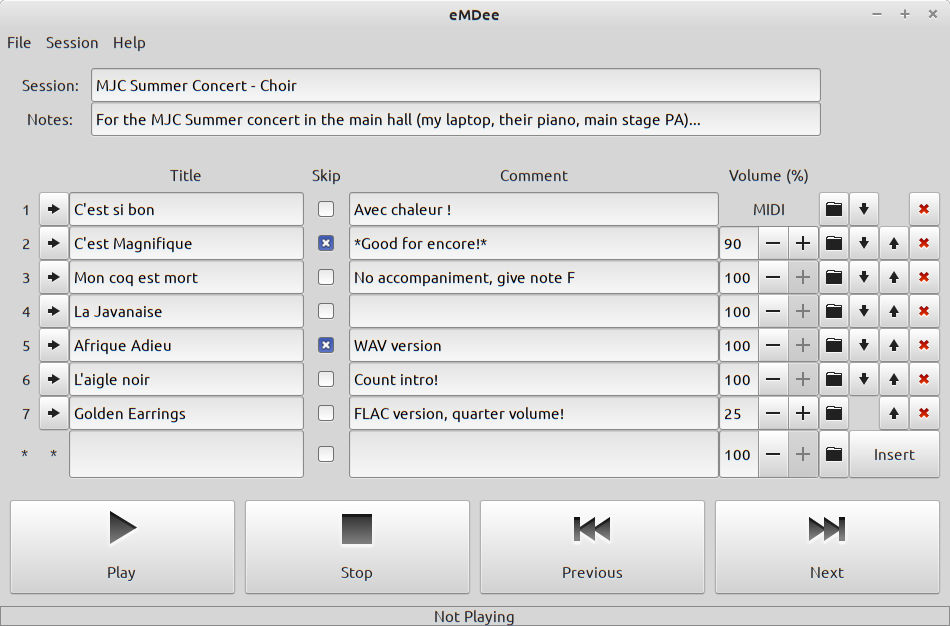
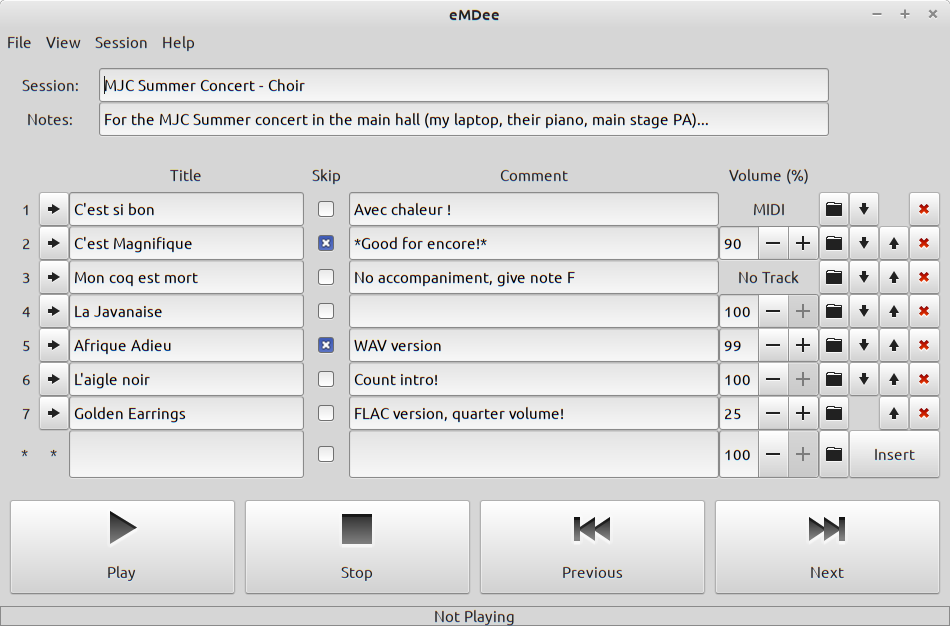
Update screenshots, README and TODO.

diff --git a/README.md b/README.md
@@ -7,7 +7,7 @@
 ![GitHub License](https://img.shields.io/github/license/SMerrony/emdee) ![GitHub Issues or Pull Requests](https://img.shields.io/github/issues/SMerrony/emdee) ![GitHub top language](https://img.shields.io/github/languages/top/SMerrony/emdee)
 
 
-`eMDee` is a live performance assistant for musical directors which removes 
+`eMDee` is a live performance and rehearsal assistant for musical directors which removes 
 the need to have folders of tracks and command-line windows open in order to play backing tracks for performance groups such as singers, choirs, and theatre-groups.
 
 The MD can plan in advance the order of performance; later, `eMDee` will facilitate the playing of each track in the specfied order during the performance.
@@ -17,7 +17,7 @@ Each audio track may have its own volume setting.
 ![eMDee main screen, ready to perform!](doc/eMDee_0_1_0_Loaded.png)
 
 `eMDee` was originally designed for GNU Linux systems such as Mint, Debian, Ubuntu, etc., 
-however work has started on a Windows version.
+however work has started on Windows compatibility.
 
 ## Core Features
 * Create 'session' of 'tracks'
@@ -27,10 +27,11 @@ however work has started on a Windows version.
 * Controls are provided to Play, Stop
 * Audio tracks may have a volume modifie
 * Dummy or 'placeholder' tracks may be inserted to remind MD of a cappella pieces etc.
+* Independently scalable interface, so you can have a nice big font for live use without reconfiguring your desktop
 
 Third-party 'helper' applications are used to actually play the tracks, currently...
 * `ffplay` for FLAC, MP3, OGG and WAV
-* `aplaymidi` for MIDI files on an external device such as a synthesizer, keyboard, or digital piano
+* `aplaymidi` (Linux-only) for MIDI files on an external device such as a synthesizer, keyboard, or digital piano
 
 You must ensure those applications are installed on your system for `eMDee` to work.
 

diff --git a/TODO.md b/TODO.md
@@ -9,4 +9,4 @@
 
 ## GUI
 * Add statefulness (?) to GUI buttons, ie. disable STOP unless currently playing
-* Add scaling to GUI, maybe save in the session.toml file?
+* ~~Add scaling to GUI, maybe save in the session.toml file?~~ Done
